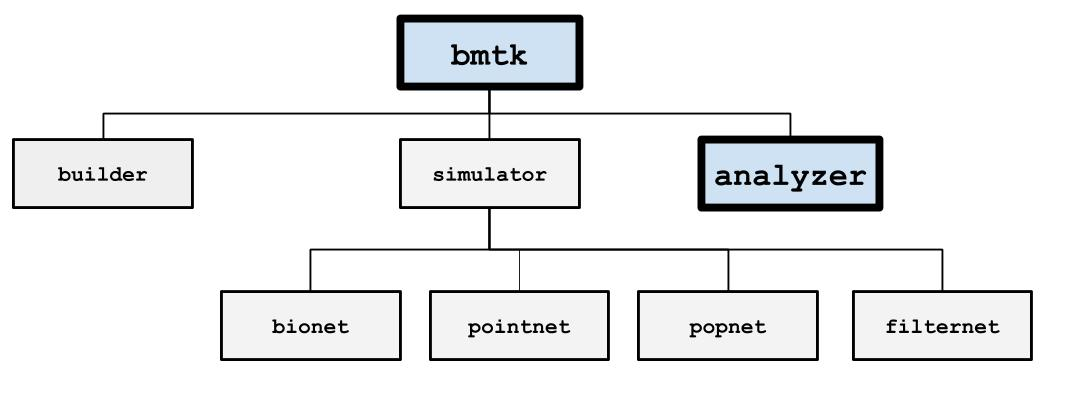
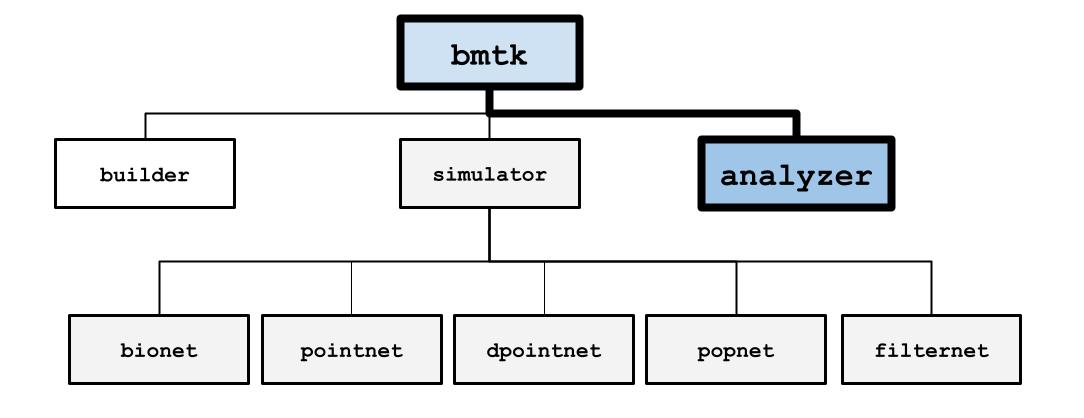
Updating site images to include dpointnet w/ new image

diff --git a/bmtk/simulator/filternet/lgnmodel/lnunit.py b/bmtk/simulator/filternet/lgnmodel/lnunit.py
@@ -10,7 +10,7 @@ class LNUnit(object):
         self.amplitude = amplitude
 
     def evaluate(self, movie, **kwargs):
-        return self.get_cursor(movie, separable=kwargs.pop('separable', False)).evaluate(**kwargs)
+        return self.get_cursor(movie, separable=kwargs.pop('separable', True)).evaluate(**kwargs)
  
     def get_spatiotemporal_kernel(self, *args, **kwargs):
         return self.linear_filter.get_spatiotemporal_kernel(*args, **kwargs)
@@ -18,7 +18,7 @@ class LNUnit(object):
     def get_spectrotemporal_kernel(self, *args, **kwargs):
         return self.linear_filter.get_spectrotemporal_kernel(*args, **kwargs)
 
-    def get_cursor(self, movie, threshold=0, separable=False):
+    def get_cursor(self, movie, threshold=0, separable=True):
         if separable:
             return SeparableLNUnitCursor(self, movie)
         else:
@@ -90,7 +90,7 @@ class MultiLNUnit(object):
     def get_cursor(self, *args, **kwargs):
         
         threshold = kwargs.get('threshold', 0.)
-        separable = kwargs.get('separable', False)
+        separable = kwargs.get('separable', True)
         
         if len(args) == 1:
             movie = args[0]
@@ -108,5 +108,5 @@ class MultiLNUnit(object):
             assert ValueError
     
     def evaluate(self, movie, **kwargs):
-        seperable = kwargs.pop('separable', False)
+        seperable = kwargs.pop('separable', True)
         return self.get_cursor(movie, separable=seperable).evaluate(**kwargs)

diff --git a/bmtk/simulator/filternet/default_setters/cell_loaders.py b/bmtk/simulator/filternet/default_setters/cell_loaders.py
@@ -67,9 +67,9 @@ def get_sigma(node, dynamics_params):
         sigma = node['spatial_size']
     elif 'sigma' in node:
         sigma = node['sigma']
-    elif 'spatial_size' in dynamics_params:
+    elif dynamics_params is not None and 'spatial_size' in dynamics_params:
         sigma = dynamics_params['spatial_size']
-    elif 'sigma' in dynamics_params:
+    elif dynamics_params is not None and 'sigma' in dynamics_params:
         sigma = dynamics_params['spatial_size']
     else:
         # TODO: Raise warning
@@ -224,7 +224,7 @@ def default_cell_loader(node, template_name, dynamics_params):
             # Get spontaneous firing rate, either from the cell property of calculate from experimental data
             if 'spont_fr' in node:
                 spont_fr = node['spont_fr']
-            elif 'spont_fr' in dynamics_params:
+            elif dynamics_params is not None and 'spont_fr' in dynamics_params:
                 spont_fr = dynamics_params['spont_fr']
             else:
                 exp_prs_dict = get_data_metrics_for_each_subclass(cell_type)

diff --git a/docs/autodocs/source/index.rst b/docs/autodocs/source/index.rst
@@ -91,15 +91,16 @@ About BMTK
    .. raw:: html
 
       <div style="position: relative;">
-         <img src="_static/images/bmtk-workflow-ver2.png" style="width: 100%; height: auto;">
+         <img src="_static/images/bmtk-workflow-ver3.png" style="width: 100%; height: auto;">
          <a href="builder.html"><div style="position: absolute; left: 0%; top: 22%; width: 20%; height: 13%; background-color: rgba(0, 0, 0, .0);"></div></a>
          <a href="simulators_guide.html"><div style="position: absolute; left: 38%; top: 22%; width: 23%; height: 13%; background-color: rgba(0, 0, 0, 0);"></div></a>
          <a href="analyzer.html"><div style="position: absolute; left: 78%; top: 22%; width: 22%; height: 13%; background-color: rgba(0, 0, 0, .0);"></div></a>
          
-         <a href="bionet.html"><div style="position: absolute; left: 22%; top: 48%; width: 13%; height: 52%; background-color: rgba(0, 0, 0, .0);"></div></a>
-         <a href="pointnet.html"><div style="position: absolute; left: 36%; top: 48%; width: 13%; height: 52%; background-color: rgba(0, 0, 0, .0);"></div></a>
-         <a href="filternet.html"><div style="position: absolute; left: 50%; top: 48%; width: 13%; height: 52%; background-color: rgba(0, 0, 0, .0);"></div></a>
-         <a href="popnet.html"><div style="position: absolute; left: 64%; top: 48%; width: 13%; height: 52%; background-color: rgba(0, 0, 0, .0);"></div></a>
+         <a href="bionet.html"><div style="position: absolute; left: 14.5%; top: 48%; width: 13%; height: 52%; background-color: rgba(0, 0, 0, .0);"></div></a>
+         <a href="pointnet.html"><div style="position: absolute; left: 28.5%; top: 48%; width: 13%; height: 52%; background-color: rgba(0, 0, 0, .0);"></div></a>
+         <a href="dpointnet_guide.html"><div style="position: absolute; left: 43%; top: 48%; width: 13%; height: 52%; background-color: rgba(0, 0, 0, .0);"></div></a>
+         <a href="filternet.html"><div style="position: absolute; left: 57.5%; top: 48%; width: 13%; height: 52%; background-color: rgba(0, 0, 0, .0);"></div></a>
+         <a href="popnet.html"><div style="position: absolute; left: 71.5%; top: 48%; width: 13%; height: 52%; background-color: rgba(0, 0, 0, .0);"></div></a>
       </div>
 
 

diff --git a/docs/autodocs/source/user_guide.rst b/docs/autodocs/source/user_guide.rst
@@ -30,7 +30,7 @@ population-level firing rate models.
 The BMTK is not itself a simulator and utilizes existing simulators, like NEURON and NEST, to run different types of
 models. What BMTK does provide is a streamlined workflow to build, analyze, and store models efficiently:
 
-.. figure:: _static/images/bmtk_architecture.jpg
+.. figure:: _static/images/bmtk_architecture_ver2.jpg
    :scale: 45%
 
 The BMTK Workflow and architecture
@@ -57,8 +57,6 @@ As such BMTK can be broken into three major components:
 * Analysis and Visualization Tools [:py:mod:`bmtk.analyzer`] - Python functions for analyzing and visualizing the
    network and simulation results
 
-.. figure:: _static/images/bmtk_architecture.jpg
-   :scale: 45%
 
 The components can function as one workflow or separately by themselves. BMTK utilizes the SONATA Data format (see next section)
 to allow sharing of large-scale network data. As such, it is possible to use the Network Builder to build the model but

diff --git a/docs/autodocs/source/news_and_events.rst b/docs/autodocs/source/news_and_events.rst
@@ -47,12 +47,16 @@ News Letter
 
     .. raw:: html
 
-        <iframe src=_static/documents/Updates%20on%20the%20Allen%20Institute%20Modeling%20Software%20-%20September%202025.pdf width="100%" height="600" frameborder="0"></iframe>
+        <iframe src=https://t.e2ma.net/webview/z4l5nj/828f6a15b082f9d68cd9a5e1abeee79a width="100%" height="600" frameborder="0"></iframe>
 
 
 
 Previous News Letters
 ^^^^^^^^^^^^^^^^^^^^^
+
+* `September 2026 <https://t.e2ma.net/webview/z4l5nj/828f6a15b082f9d68cd9a5e1abeee79a>`__
+
+* `March 2026 <https://t.e2ma.net/message/nvm26i/nj11yn8b>`__
 
 * `September 2025 <_static/documents/Updates%20on%20the%20Allen%20Institute%20Modeling%20Software%20-%20September%202025.pdf>`__
 
